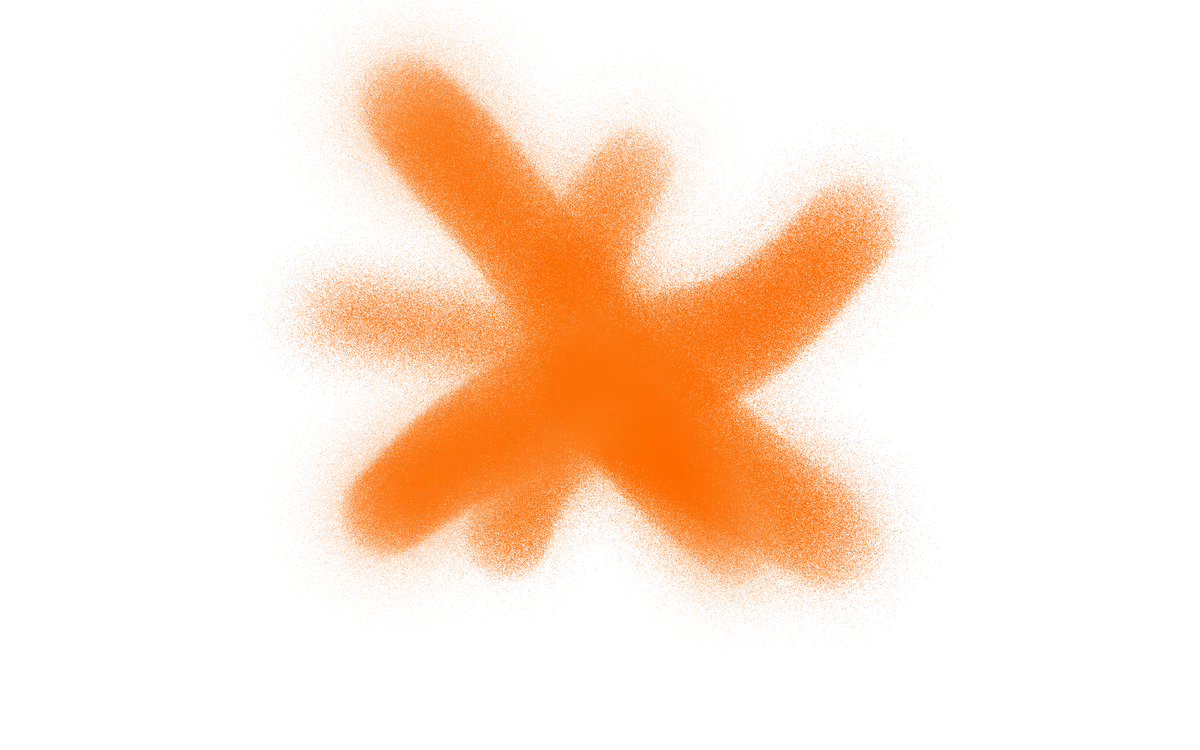
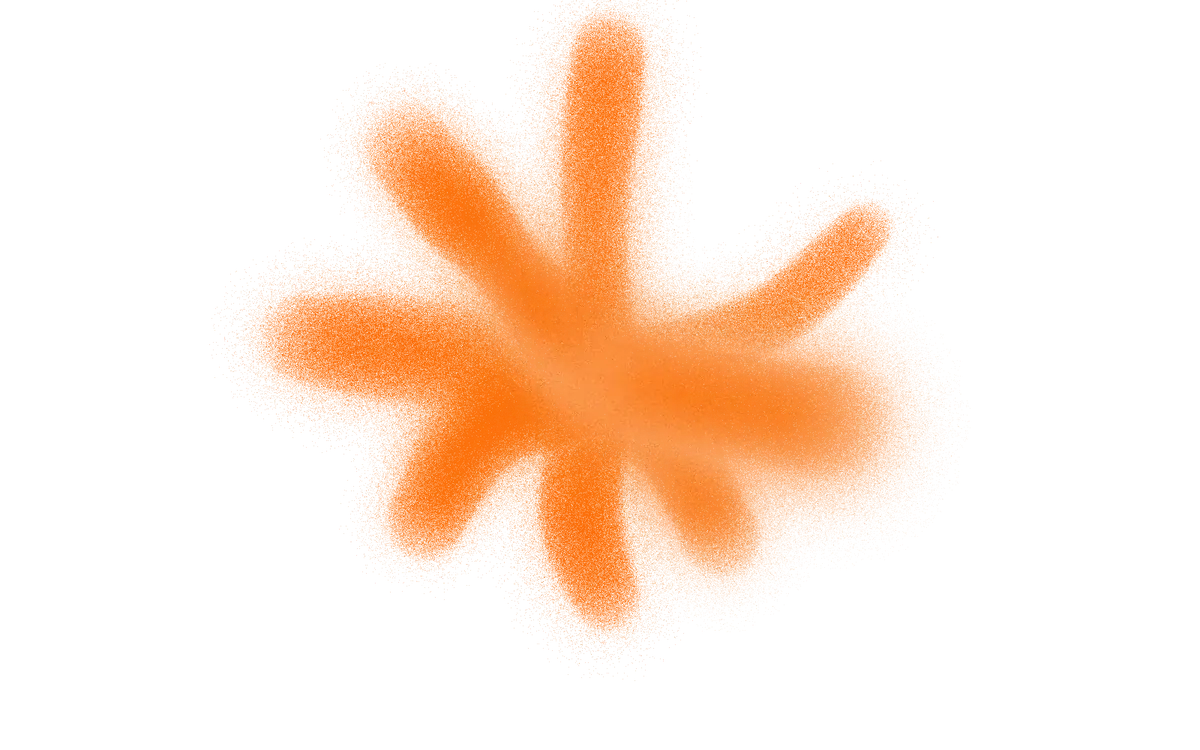
Doodles spray on: the statement gets a random doodle instead of the smiley and the footer's doodle sprays on too, both revealed along their baked stroke paths in layered soft passes, a bit quicker than before; the strike through never is in a colour well away from the doodle's

Changed region(s): [[0.185, 0.0, 0.7708, 0.8587]]

diff --git a/spray.js b/spray.js
@@ -1,8 +1,9 @@
 /* Spray paint on the site.
    Every sprayed picture is a flat image baked once, offline, in the halation spray Joe signed off (img/spray/, made by
    the bake page in the session scratchpad): placeholders, What We Do, How we work, Craft, the AI gradient, the wheel's
-   blue, and the marks on photo edges. Only the statement's smiley is worked out in the page, because it sprays on over
-   the text as you arrive. */
+   blue, and the marks on photo edges. The doodles over the statement and in the footer
+   are baked too, with their stroke paths (ft.json), and spray on along those paths as you arrive; only the strike
+   through "never" is worked out in the page. */
 (() => {
   const RM = matchMedia('(prefers-reduced-motion: reduce)').matches;
   /* work queued for the browser's idle moments, one piece at a time, so it never freezes the page */
@@ -20,16 +21,68 @@
     else { const io = new IntersectionObserver(es => { if (es.some(e => e.isIntersecting)) { io.disconnect(); load(); } }, { rootMargin: '150% 0px' }); [...new Set(lazy)].forEach(el => el && io.observe(el)); }
   }
 
-  /* the footer: one sprayed doodle, picked at random each visit, between Extra and Ordinary */
+  /* ---------- spraying on: a finished picture revealed along its strokes, built up as paint is: a wide mist first, then
+     denser, narrower coats through a soft round nozzle, so there is never a hard edge. ready: the finished picture;
+     strokes: [{r, p:[[x,y]...]}] in its pixels; blit(picture): draws a frame where it belongs. ---------- */
+  const NZ = (() => { const c = document.createElement('canvas'); c.width = c.height = 64; const x = c.getContext('2d'), gr = x.createRadialGradient(32, 32, 0, 32, 32, 32);
+    gr.addColorStop(0, 'rgba(0,0,0,1)'); gr.addColorStop(0.45, 'rgba(0,0,0,.65)'); gr.addColorStop(1, 'rgba(0,0,0,0)'); x.fillStyle = gr; x.fillRect(0, 0, 64, 64); return c; })();
+  const PASS = [[2.6, 0.22, 0.4], [1.9, 0.5, 0.33], [1.45, 0.85, 0.27]];   /* [nozzle width x stroke, coverage the pass adds, share of the time] */
+  function sprayOn(ready, strokes, blit, done) {
+    if (RM) { blit(ready); return done && done(); }
+    const W = ready.width, H = ready.height, mk = () => { const c = document.createElement('canvas'); c.width = W; c.height = H; return c; };
+    const m = mk(), mg = m.getContext('2d'), tmp = mk(), tg = tmp.getContext('2d');
+    /* each stroke as dabs a quarter of its width apart */
+    const S = strokes.map(({ r, p }) => { const out = [], step = Math.max(1, r * 0.25);
+      for (let i = 0; i < p.length - 1; i++) { const [ax, ay] = p[i], [bx, by] = p[i + 1], n = Math.max(1, Math.ceil(Math.hypot(bx - ax, by - ay) / step)); for (let k = 0; k < n; k++) out.push([ax + (bx - ax) * k / n, ay + (by - ay) * k / n]); }
+      out.push(p[p.length - 1]); return { r, p: out, t: Math.min(620, Math.max(220, out.length * step / W * 1500)) }; });
+    let si = 0, pi = 0, st = 0, done2 = 0, fade = 0;
+    const frame = () => { tg.globalCompositeOperation = 'copy'; tg.drawImage(ready, 0, 0); tg.globalCompositeOperation = 'destination-in'; tg.drawImage(m, 0, 0); blit(tmp); };
+    const step = now => {
+      if (si >= S.length) {   /* last, settle into the finished picture */
+        if (!fade) fade = now; const f = Math.min(1, (now - fade) / 280);
+        tg.globalCompositeOperation = 'source-over'; tg.globalAlpha = f * f; tg.drawImage(ready, 0, 0); tg.globalAlpha = 1; blit(tmp);
+        if (f < 1) return requestAnimationFrame(step);
+        blit(ready); return done && done();
+      }
+      if (!st) st = now;
+      const s = S[si], [wx, cover, share] = PASS[pi], p = Math.min(1, (now - st) / (s.t * share)), e = p * p * (1.6 - 0.6 * p);
+      const back = pi % 2 === 1, n = s.p.length - 1, upto = Math.round(e * n), rad = s.r * wx, size = rad * 2;
+      mg.globalAlpha = 1 - Math.pow(1 - cover, 1 / Math.max(1, size / (s.r * 0.25) * 0.6));   /* so each pass adds about its coverage, however many dabs overlap */
+      for (; done2 <= upto; done2++) { const [x, y] = s.p[back ? n - done2 : done2]; mg.drawImage(NZ, x - rad, y - rad, size, size); }
+      frame();
+      if (p < 1) return requestAnimationFrame(step);
+      st = 0; done2 = 0; pi++;
+      if (pi < PASS.length) return requestAnimationFrame(step);
+      pi = 0; si++;
+      if (si < S.length) return setTimeout(() => requestAnimationFrame(step), 50 + Math.random() * 60);
+      requestAnimationFrame(step);
+    };
+    requestAnimationFrame(step);
+  }
+  /* the doodles: 18 baked pictures (1200 x 750) and their stroke paths, as fractions of the picture */
+  let FT = null; const doodles = () => FT || (FT = fetch('/img/spray/ft.json').then(r => r.json()).catch(() => null));
+  const loadImg = src => new Promise((ok, no) => { const i = new Image(); i.decoding = 'async'; i.onload = () => ok(i); i.onerror = no; i.src = src; });
+  const pickD = (() => { const used = []; return () => { let i; do i = Math.random() * 18 | 0; while (used.includes(i) && used.length < 18); used.push(i); return i; }; })();
+  const pathsFor = (meta, w, h) => meta.strokes.map(({ r, p }) => ({ r: r * w, p: p.map(([x, y]) => [x * w, y * h]) }));
+  const onView = (el, fn, thr = 0.35) => { if (!('IntersectionObserver' in window)) return fn(); const io = new IntersectionObserver(es => { if (es.some(e => e.isIntersecting)) { io.disconnect(); fn(); } }, { threshold: thr }); io.observe(el); };
+
+  /* ---------- the footer: a doodle between Extra and Ordinary, sprayed on as the footer comes up ---------- */
   const fm = document.querySelector('.foot-mark'), fa = fm && fm.querySelector('.fm-avg'), fj = fm && fm.querySelector('.fm-joe');
   if (fa && fj) {
-    const im = document.createElement('img'); im.className = 'foot-draw'; im.alt = ''; im.setAttribute('aria-hidden', 'true'); im.loading = 'lazy'; im.decoding = 'async';
-    im.src = '/img/spray/ft-' + (Math.random() * 18 | 0) + '.webp'; fm.appendChild(im);
+    const cv = document.createElement('canvas'); cv.className = 'foot-draw'; cv.setAttribute('aria-hidden', 'true'); fm.appendChild(cv);
+    const di = pickD(); let pic = null, shown = false;
     const place = () => {   /* from the layout, so it holds while the footer slides in */
-      const l = fa.offsetLeft + fa.offsetWidth, gap = Math.max(fj.offsetLeft - l, 0), w = Math.max(gap * 1.6, fm.clientWidth * 0.36), h = w * 0.625;
-      im.style.width = w + 'px'; im.style.height = h + 'px'; im.style.left = (l + gap / 2 - w / 2) + 'px'; im.style.top = (fa.offsetTop + fa.offsetHeight * 0.5 - h / 2) + 'px';
+      const l = fa.offsetLeft + fa.offsetWidth, gap = Math.max(fj.offsetLeft - l, 0), w = Math.max(gap * 1.6, fm.clientWidth * 0.36), h = w * 0.625, d = Math.min(devicePixelRatio || 1, 2);
+      cv.style.width = w + 'px'; cv.style.height = h + 'px'; cv.style.left = (l + gap / 2 - w / 2) + 'px'; cv.style.top = (fa.offsetTop + fa.offsetHeight * 0.5 - h / 2) + 'px';
+      const W = Math.round(w * d), H = Math.round(h * d); if (cv.width !== W || cv.height !== H) { cv.width = W; cv.height = H; if (shown && pic) cv.getContext('2d').drawImage(pic, 0, 0, W, H); }
     };
     place(); addEventListener('resize', place); if (document.fonts) document.fonts.ready.then(place);
+    const near = new IntersectionObserver(es => { if (!es.some(e => e.isIntersecting)) return; near.disconnect();
+      Promise.all([doodles(), loadImg('/img/spray/ft-' + di + '.webp')]).then(([meta, img]) => { pic = img;
+        onView(cv, () => { const g = cv.getContext('2d'), go = () => sprayOn(img, meta ? pathsFor(meta[di], img.width, img.height) : [], f => { g.clearRect(0, 0, cv.width, cv.height); g.drawImage(f, 0, 0, cv.width, cv.height); }, () => { shown = true; });
+          if (!meta) { g.drawImage(img, 0, 0, cv.width, cv.height); shown = true; } else go(); }, 0.5);
+      }).catch(() => {}); }, { rootMargin: '60% 0px' });
+    near.observe(fm);
   }
 
   /* odd bits of photography get a sprayed mark off one corner: a few at random each visit, the 620 picture always in lime */
@@ -47,144 +100,81 @@
     img.after(o);
   });
 
-  /* ---------- the statement: a smiley sprayed over it, with halation ----------
-     Signed off by Joe in an off-site test (25 Nov 2026). Each stroke thickens and thins, fades and goes in and out of focus;
-     a glow in a close colour blooms off it in a few short stretches and bleeds into its edge; all in particles finer than a
-     screen pixel (worked out at twice the screen's resolution, then drawn down). Worked out in idle slices before it scrolls
-     in, then revealed along each stroke in the order it was sprayed. */
-  const PAIRS = [['#ff5a12', '#ffab85'], ['#ff3f8e', '#ffa3b8'], ['#1f3dff', '#7cc3ff'], ['#1f3dff', '#8a4dff'], ['#8fdc2a', '#2fae55'], ['#8b45ff', '#b0559e']];   /* orange/peach, pink/soft pink, blue/light blue, blue/purple, lime/green, purple/plum */
-  function smile(cv) {
-    const wrap = cv.parentElement, tb = wrap.querySelector('.ca-state').getBoundingClientRect(), box = cv.getBoundingClientRect();
-    const d = Math.min(devicePixelRatio || 1, 2), q = d * 2;   /* d: the canvas's pixels per CSS pixel; q: the working resolution */
-    cv.width = Math.round(box.width * d); cv.height = Math.round(box.height * d);
-    const sz = Math.min(tb.height * 1.55, tb.width * 0.42), mx = tb.left + tb.width / 2 - box.left, my = tb.top + tb.height / 2 - box.top + sz * 0.07;
-    let x0 = mx - sz * 1.25, y0 = my - sz * 1.0, rw = sz * 2.5, rh = sz * 2.05;   /* the patch the smiley and its glow sit in (CSS px) */
-    const nvEl = wrap.querySelector('.ca-nv'), nv = nvEl && nvEl.getBoundingClientRect();   /* and a strike through "never", so the patch reaches it too */
-    let nL, nR, nM, nH;
-    if (nv && nv.width) {
-      /* measured from the layout, not the screen: the lines may still be sliding in as this runs */
-      const rel = el => { let x = 0, y = 0; while (el && el !== wrap) { x += el.offsetLeft; y += el.offsetTop; el = el.offsetParent; } return [x, y]; };
-      const [ex, ey] = rel(nvEl), [cx0, cy0] = rel(cv);
-      nL = ex - cx0; nR = nL + nvEl.offsetWidth; nH = nvEl.offsetHeight; nM = ey - cy0 + nH * 0.52;
-      const p = nH * 1.1, ax = Math.max(0, Math.min(x0, nL - p)), ay = Math.max(0, Math.min(y0, nM - p)), bx = Math.min(box.width, Math.max(x0 + rw, nR + p)), by = Math.min(box.height, Math.max(y0 + rh, nM + p));
-      x0 = ax; y0 = ay; rw = bx - ax; rh = by - ay;
-    }
-    const W = Math.round(rw * q), H = Math.round(rh * q), K = sz * q / 210;   /* K: working pixels per pixel of the test, where sz was 210 */
-    const [coreHex, haloHex] = PAIRS[Math.random() * PAIRS.length | 0], tilt = (0.15 + Math.random() * 0.12) * (Math.random() < 0.5 ? -1 : 1);
-    const co = Math.cos(tilt), si = Math.sin(tilt), cx = (mx - x0) * q, cy = (my - y0) * q, SZ = sz * q;
-    const F = (u, v) => [cx + (u * co - v * si) * SZ, cy + (u * si + v * co) * SZ];
-    const along = pts => { const P = pts.map(([u, v]) => F(u, v)), out = [];
-      for (let k = 0; k < P.length - 1; k++) { const [ax, ay] = P[k], [bx, by] = P[k + 1], n = Math.ceil(Math.hypot(bx - ax, by - ay) / (1.5 * K)); for (let j = 0; j < n; j++) out.push([ax + (bx - ax) * j / n, ay + (by - ay) * j / n]); }
-      return out; };
+  /* ---------- the statement: a doodle sprayed over it, then a strike through "never" in another colour ----------
+     The strike is worked out in the page in the halation spray (signed off 25 Nov 2026): it thickens and thins, fades and
+     goes in and out of focus, a close-colour glow blooms off it in short stretches, in particles finer than a pixel. */
+  const PAIRS = [['#ff5a12', '#ffab85'], ['#ff3f8e', '#ffa3b8'], ['#1f3dff', '#7cc3ff'], ['#1f3dff', '#8a4dff'], ['#8fdc2a', '#2fae55'], ['#8b45ff', '#b0559e']];
+  const hue = h => { const [r, g, b] = [1, 3, 5].map(i => parseInt(h.slice(i, i + 2), 16) / 255), M = Math.max(r, g, b), n = Math.min(r, g, b), c = M - n; if (!c) return 0;
+    const x = M === r ? ((g - b) / c) % 6 : M === g ? (b - r) / c + 2 : (r - g) / c + 4; return (x * 60 + 360) % 360; };
+  /* the strike, worked out in idle slices: returns {ready, stroke, rect} via cb */
+  function strike(cv, wrap, pair, cb) {
+    const nvEl = wrap.querySelector('.ca-nv'); if (!nvEl || !nvEl.offsetWidth) return cb(null);
+    const rel = el => { let x = 0, y = 0; while (el && el !== wrap) { x += el.offsetLeft; y += el.offsetTop; el = el.offsetParent; } return [x, y]; };   /* from the layout: the lines may still be sliding in */
+    const [ex, ey] = rel(nvEl), [cx0, cy0] = rel(cv), nL = ex - cx0, nW = nvEl.offsetWidth, nH = nvEl.offsetHeight, nM = ey - cy0 + nH * 0.52;
+    const d = Math.min(devicePixelRatio || 1, 2), q = d * 2, pad = nH * 1.1, x0 = nL - nW * 0.14 - pad, y0 = nM - pad, rw = nW * 1.28 + pad * 2, rh = pad * 2;
+    const W = Math.round(rw * q), H = Math.round(rh * q), R = nH * 0.27 * q, K = R / 21.45;
+    const P = (x, y) => [(x - x0) * q, (y - y0) * q], dy = (Math.random() - 0.5) * nH * 0.12;
+    const key = [P(nL - nW * 0.14, nM + nH * 0.12 + dy), P(nL + nW * 0.3, nM + nH * 0.04), P(nL + nW * 0.7, nM - nH * 0.04 + dy), P(nL + nW * 1.14, nM - nH * 0.14)];
     const sm = pts => pts.map((b, k) => { const a = pts[Math.max(0, k - 1)], c = pts[Math.min(pts.length - 1, k + 1)]; return [(a[0] + 2 * b[0] + c[0]) / 4, (a[1] + 2 * b[1] + c[1]) / 4]; });
-    const j = () => (Math.random() - 0.5) * 0.04;   /* no two smileys quite the same */
-    const line = P => { const out = []; for (let k = 0; k < P.length - 1; k++) { const [ax, ay] = P[k], [bx, by] = P[k + 1], n = Math.ceil(Math.hypot(bx - ax, by - ay) / (1.5 * K)); for (let i = 0; i < n; i++) out.push([ax + (bx - ax) * i / n, ay + (by - ay) * i / n]); } return out; };
-    const strokes = [along([[-0.32 + j(), -0.52], [-0.31 + j(), -0.35], [-0.3 + j(), -0.17]]), along([[0.32 + j(), -0.52], [0.33 + j(), -0.35], [0.34 + j(), -0.17]]),
-                     along(sm(sm([[-0.64, 0.04 + j()], [-0.48, 0.3], [-0.25, 0.5 + j()], [0.02, 0.58], [0.28, 0.5 + j()], [0.5, 0.3], [0.66, 0.0 + j()]])))];
-    if (nL !== undefined) {   /* the strike: one bold pass through the word, a touch uphill, running past each end */
-      const w = nR - nL, P = (x, y) => [(x - x0) * q, (y - y0) * q], dy = (Math.random() - 0.5) * nH * 0.12;
-      const st = line(sm(sm([P(nL - w * 0.14, nM + nH * 0.12 + dy), P(nL + w * 0.3, nM + nH * 0.04), P(nL + w * 0.7, nM - nH * 0.04 + dy), P(nR + w * 0.14, nM - nH * 0.14)])));
-      st.firm = true; st.scale = nH * 0.27 * q / (21.45 * K); strokes.push(st);
-    }
+    const path = []; { const k2 = sm(sm(key)); for (let i = 0; i < k2.length - 1; i++) { const [ax, ay] = k2[i], [bx, by] = k2[i + 1], n = Math.ceil(Math.hypot(bx - ax, by - ay) / (1.5 * K)); for (let j = 0; j < n; j++) path.push([ax + (bx - ax) * j / n, ay + (by - ay) * j / n]); } }
     const mk = () => { const c = document.createElement('canvas'); c.width = W; c.height = H; return c; };
     const wob = () => { const a = Math.random() * 6, b = Math.random() * 6, c = Math.random() * 6; return t => 0.5 + 0.28 * Math.sin(t * 0.009 + a) + 0.16 * Math.sin(t * 0.027 + b) + 0.08 * Math.sin(t * 0.07 + c); };
-    const sharp = mk(), soft = mk(), gm = mk(), sg = sharp.getContext('2d'), fg = soft.getContext('2d'), gg = gm.getContext('2d'), reach = [];
+    const sharp = mk(), soft = mk(), gm = mk(), sg = sharp.getContext('2d'), fg = soft.getContext('2d'), gg = gm.getContext('2d'), width = wob(), dense = wob(), glow = wob();
     [sg, fg, gg].forEach(x => x.fillStyle = '#000');
-    let t0 = 0;
-    for (const s of strokes) {
-      const width = wob(), dense = wob(), glow = wob(); let big = 0;
-      s.forEach(([x, y], k) => {
-        const t = t0 + k * 1.5, end = Math.min(1, k / 18, (s.length - k) / 18);
-        const r = 26 * K * (s.firm ? 0.8 + 0.35 * width(t) : 0.45 + 0.75 * width(t)) * (0.88 + 0.12 * end) * (s.scale || 1);   /* thicker and thinner along it, round at the ends */
-        const a = Math.max(s.firm ? 0.55 : 0.03, Math.min(1, 1.3 * dense(t) - 0.25)) * (0.7 + 0.3 * end);   /* denser and faded along it */
-        for (const x2 of [sg, fg]) { x2.globalAlpha = a * 0.24; x2.beginPath(); x2.arc(x, y, r, 0, 6.283); x2.fill(); }
-        const gw = Math.max(0, glow(t) * 1.7 - 0.85) ** 1.6;   /* the glow blooms in a few short stretches, not evenly */
-        if (gw > 0.01) { gg.globalAlpha = Math.min(1, gw) * 0.28; gg.beginPath(); gg.arc(x + (Math.random() - 0.5) * 6 * K, y + (Math.random() - 0.5) * 6 * K, r * 0.95, 0, 6.283); gg.fill(); }
-        if (r > big) big = r;
-      });
-      reach.push(big);
-      t0 += s.length * 1.5 + 400;
-    }
+    path.forEach(([x, y], k) => {
+      const t = k * 1.5, end = Math.min(1, k / 18, (path.length - k) / 18), r = 26 * K * (0.8 + 0.35 * width(t)) * (0.88 + 0.12 * end), a = Math.max(0.55, Math.min(1, 1.3 * dense(t) - 0.25)) * (0.7 + 0.3 * end);
+      for (const x2 of [sg, fg]) { x2.globalAlpha = a * 0.24; x2.beginPath(); x2.arc(x, y, r, 0, 6.283); x2.fill(); }
+      const gw = Math.max(0, glow(t) * 1.7 - 0.85) ** 1.6;
+      if (gw > 0.01) { gg.globalAlpha = Math.min(1, gw) * 0.28; gg.beginPath(); gg.arc(x + (Math.random() - 0.5) * 6 * K, y + (Math.random() - 0.5) * 6 * K, r * 0.95, 0, 6.283); gg.fill(); }
+    });
     const blur = (c, px) => { const o = mk(), x = o.getContext('2d'); x.filter = 'blur(' + px * K + 'px)'; x.drawImage(c, 0, 0); return o; };
+    const core = [1, 3, 5].map(i => parseInt(pair[0].slice(i, i + 2), 16)), halo = [1, 3, 5].map(i => parseInt(pair[1].slice(i, i + 2), 16));
     let S, Sf, Gm, out, o, fv, fw, fq, row = 0;
-    const core = [1, 3, 5].map(i => parseInt(coreHex.slice(i, i + 2), 16)), halo = [1, 3, 5].map(i => parseInt(haloHex.slice(i, i + 2), 16));
-    const prep = () => {
-      S = blur(sharp, 1.5).getContext('2d').getImageData(0, 0, W, H).data;
-      Sf = blur(soft, 13).getContext('2d').getImageData(0, 0, W, H).data;
-      const ga = blur(gm, 16), gx = ga.getContext('2d'); gx.globalAlpha = 0.8; gx.drawImage(blur(gm, 7), 0, 0); Gm = gx.getImageData(0, 0, W, H).data;
-      fq = 130 * K; fw = Math.ceil(W / fq) + 2; fv = Array.from({ length: fw * (Math.ceil(H / fq) + 2) }, Math.random);
-      out = new ImageData(W, H); o = out.data;
-      later(slice);
-    };
     const focus = (x, y) => { const fx = x / fq, ix = fx | 0, tx = fx - ix, fy = y / fq, iy = fy | 0, ty = fy - iy, i = iy * fw + ix, a = tx * tx * (3 - 2 * tx), b = ty * ty * (3 - 2 * ty);
       return (fv[i] * (1 - a) + fv[i + 1] * a) * (1 - b) + (fv[i + fw] * (1 - a) + fv[i + fw + 1] * a) * b; };
-    const slice = () => {   /* the particles, a band of rows per idle moment so the page never stalls */
-      const end = Math.min(H, row + Math.max(40, Math.round(320000 / W)));
-      for (let y = row; y < end; y++) for (let x = 0; x < W; x++) {
-        const i = (y * W + x) * 4; if (S[i + 3] < 2 && Sf[i + 3] < 2 && Gm[i + 3] < 2) continue;
-        const f = focus(x, y) ** 1.3, body = Math.min(1, (S[i + 3] / 255 * f + Sf[i + 3] / 255 * (1 - f)) * 1.05), glw = Math.min(1, Gm[i + 3] / 255 * 1.2);
-        const pb = Math.random() < body ** 1.15, pg = Math.random() < glw * 0.95;   /* each particle: paint or not, by how much paint is there */
-        if (!pb && !pg) continue;
-        let r, g2, b, a;
-        if (pb) { const bl = Math.min(0.85, glw * (1 - body) * 1.6);   /* the stroke's edge takes the glow's colour where the glow is strong */
-          r = core[0] + (halo[0] - core[0]) * bl; g2 = core[1] + (halo[1] - core[1]) * bl; b = core[2] + (halo[2] - core[2]) * bl; a = 0.9 + Math.random() * 0.1;
-        } else { r = halo[0]; g2 = halo[1]; b = halo[2]; a = 0.55 + 0.45 * glw; }
-        const sh = 0.9 + Math.random() * 0.2;
-        o[i] = r * sh; o[i + 1] = g2 * sh; o[i + 2] = b * sh; o[i + 3] = a * 255;
-      }
-      row = end;
-      if (row < H) return later(slice);
-      const fin = mk(), fx = fin.getContext('2d'); fx.putImageData(out, 0, 0);
-      fx.fillStyle = '#fff'; for (let k = 0; k < 30; k++) { fx.globalAlpha = 0.4 + Math.random() * 0.5; fx.beginPath(); fx.arc(cx + (Math.random() - 0.5) * 450 * K, cy + (Math.random() - 0.5) * 300 * K, (0.4 + Math.random() * 0.7) * K, 0, 6.28); fx.fill(); }
-      S = Sf = Gm = out = o = null;
-      ready = fin; if (seen) reveal();
-    };
-    let ready = null, seen = false, shown = false;
-    const g = cv.getContext('2d'), put = () => { g.imageSmoothingQuality = 'high'; g.drawImage(ready, x0 * d, y0 * d, rw * d, rh * d); };
-    const reveal = () => {   /* built up as paint is: a few quick passes along each stroke, a wide mist first, then denser,
-                                narrower coats, each through a soft round nozzle so there is never a hard edge; eyes first */
-      if (shown) return; shown = true;
-      if (RM) return put();
-      const m = mk(), mg = m.getContext('2d'), tmp = mk(), tg = tmp.getContext('2d');
-      const nz = document.createElement('canvas'); nz.width = nz.height = 64;   /* the nozzle: dense in the middle, fading to nothing */
-      { const x = nz.getContext('2d'), gr = x.createRadialGradient(32, 32, 0, 32, 32, 32); gr.addColorStop(0, 'rgba(0,0,0,1)'); gr.addColorStop(0.45, 'rgba(0,0,0,.65)'); gr.addColorStop(1, 'rgba(0,0,0,0)'); x.fillStyle = gr; x.fillRect(0, 0, 64, 64); }
-      const PASS = [[2.7, 0.22, 0.4], [2.0, 0.5, 0.33], [1.55, 0.85, 0.27]];   /* [nozzle width x stroke, coverage the pass adds, share of the time] */
-      const time = [560, 560, 1400], gap = 2;
-      let si = 0, pi = 0, st = 0, done = 0, fade = 0;
-      const draw = () => { tg.globalCompositeOperation = 'copy'; tg.drawImage(ready, 0, 0); tg.globalCompositeOperation = 'destination-in'; tg.drawImage(m, 0, 0);
-        g.clearRect(0, 0, cv.width, cv.height); g.imageSmoothingQuality = 'high'; g.drawImage(tmp, x0 * d, y0 * d, rw * d, rh * d); };
-      const step = now => {
-        if (si >= strokes.length) {   /* last, settle into the finished picture */
-          if (!fade) fade = now; const f = Math.min(1, (now - fade) / 450);
-          draw(); g.globalAlpha = f * f; g.drawImage(ready, x0 * d, y0 * d, rw * d, rh * d); g.globalAlpha = 1;
-          return f < 1 ? requestAnimationFrame(step) : (g.clearRect(0, 0, cv.width, cv.height), put());
+    later(() => {
+      S = blur(sharp, 1.5).getContext('2d').getImageData(0, 0, W, H).data; Sf = blur(soft, 13).getContext('2d').getImageData(0, 0, W, H).data;
+      const ga = blur(gm, 16), gx = ga.getContext('2d'); gx.globalAlpha = 0.8; gx.drawImage(blur(gm, 7), 0, 0); Gm = gx.getImageData(0, 0, W, H).data;
+      fq = 130 * K; fw = Math.ceil(W / fq) + 2; fv = Array.from({ length: fw * (Math.ceil(H / fq) + 2) }, Math.random); out = new ImageData(W, H); o = out.data;
+      const slice = () => {
+        const end = Math.min(H, row + Math.max(40, Math.round(320000 / W)));
+        for (let y = row; y < end; y++) for (let x = 0; x < W; x++) {
+          const i = (y * W + x) * 4; if (S[i + 3] < 2 && Sf[i + 3] < 2 && Gm[i + 3] < 2) continue;
+          const f = focus(x, y) ** 1.3, body = Math.min(1, (S[i + 3] / 255 * f + Sf[i + 3] / 255 * (1 - f)) * 1.05), glw = Math.min(1, Gm[i + 3] / 255 * 1.2);
+          const pb = Math.random() < body ** 1.15, pg = Math.random() < glw * 0.95; if (!pb && !pg) continue;
+          let r, g2, b, a;
+          if (pb) { const bl = Math.min(0.85, glw * (1 - body) * 1.6); r = core[0] + (halo[0] - core[0]) * bl; g2 = core[1] + (halo[1] - core[1]) * bl; b = core[2] + (halo[2] - core[2]) * bl; a = 0.9 + Math.random() * 0.1; }
+          else { r = halo[0]; g2 = halo[1]; b = halo[2]; a = 0.55 + 0.45 * glw; }
+          const sh = 0.9 + Math.random() * 0.2; o[i] = r * sh; o[i + 1] = g2 * sh; o[i + 2] = b * sh; o[i + 3] = a * 255;
         }
-        if (!st) st = now;
-        const s = strokes[si], [wx, cover, share] = PASS[pi], dur = (time[si] || 700) * share, p = Math.min(1, (now - st) / dur), e = p * p * (1.6 - 0.6 * p);
-        const back = pi % 2 === 1, n = s.length - 1, upto = Math.round(e * n), rad = reach[si] * wx, size = rad * 2;
-        const over = Math.max(1, size / (gap * 1.5 * K) * 0.6), a = 1 - Math.pow(1 - cover, 1 / over);   /* so each pass adds about its coverage, however many dabs overlap */
-        mg.globalAlpha = a;
-        for (; done <= upto; done += gap) { const [x, y] = s[back ? n - done : done]; mg.drawImage(nz, x - rad, y - rad, size, size); }
-        draw();
-        if (p < 1) return requestAnimationFrame(step);
-        st = 0; done = 0; pi++;
-        if (pi < PASS.length) return requestAnimationFrame(step);
-        pi = 0; si++;
-        if (si < strokes.length) return setTimeout(() => requestAnimationFrame(step), 120 + Math.random() * 100);
-        requestAnimationFrame(step);
+        row = end; if (row < H) return later(slice);
+        const fin = mk(); fin.getContext('2d').putImageData(out, 0, 0); S = Sf = Gm = out = o = null;
+        cb({ ready: fin, stroke: { r: 26 * K, p: path.filter((_, i) => i % 3 === 0) }, rect: [x0 * d, y0 * d, rw * d, rh * d] });
       };
-      requestAnimationFrame(step);
-    };
-    later(prep);
-    return () => { seen = true; if (ready) reveal(); };
+      later(slice);
+    });
   }
-  document.querySelectorAll('canvas.spray-over').forEach(cv => {   /* worked out before it scrolls in; sprayed on once it is in view */
-    if (!('IntersectionObserver' in window)) return;
-    let go = null;
-    const near = new IntersectionObserver(es => { if (es.some(e => e.isIntersecting && cv.clientWidth)) { near.disconnect(); (document.fonts ? document.fonts.ready : Promise.resolve()).then(() => { go = smile(cv); if (inView) go(); }); } }, { rootMargin: '80% 0px' });
-    let inView = false;
-    const vis = new IntersectionObserver(es => { if (es.some(e => e.isIntersecting)) { vis.disconnect(); inView = true; setTimeout(() => go && go(), RM ? 0 : 500); } }, { threshold: 0.4 });
+  document.querySelectorAll('canvas.spray-over').forEach(cv => {
+    const wrap = cv.parentElement; if (!wrap.querySelector('.ca-state') || !('IntersectionObserver' in window)) return;
+    const cv2 = cv.cloneNode(); cv.after(cv2);   /* the strike on its own layer, so it goes over the doodle without wiping it */
+    const di = pickD();
+    let parts = null, inView = false, ran = false;
+    const run = () => { if (ran || !parts || !inView) return; ran = true;
+      const [meta, img, sk] = parts, box = cv.getBoundingClientRect(), tb = wrap.querySelector('.ca-state').getBoundingClientRect(), d = Math.min(devicePixelRatio || 1, 2);
+      [cv, cv2].forEach(c => { c.width = Math.round(box.width * d); c.height = Math.round(box.height * d); });
+      /* the doodle over the sentence: centred on it, about as tall as the text block */
+      const w = Math.min(tb.width * 0.95, tb.height * 2.4), h = w * 0.625, x = (tb.left - box.left + tb.width / 2 - w / 2) * d, y = (tb.top - box.top + tb.height / 2 - h / 2) * d;
+      const g = cv.getContext('2d'), g2 = cv2.getContext('2d');
+      const strikeOn = () => { if (!sk) return; const [rx, ry, rW, rH] = sk.rect; sprayOn(sk.ready, [sk.stroke], f => { g2.clearRect(0, 0, cv2.width, cv2.height); g2.imageSmoothingQuality = 'high'; g2.drawImage(f, rx, ry, rW, rH); }); };
+      sprayOn(img, meta ? pathsFor(meta[di], img.width, img.height) : [], f => { g.clearRect(0, 0, cv.width, cv.height); g.drawImage(f, x, y, w * d, h * d); }, () => setTimeout(strikeOn, 120));
+    };
+    const near = new IntersectionObserver(es => { if (!es.some(e => e.isIntersecting && cv.clientWidth)) return; near.disconnect();
+      (document.fonts ? document.fonts.ready : Promise.resolve()).then(() => Promise.all([doodles(), loadImg('/img/spray/ft-' + di + '.webp')])).then(([meta, img]) => {
+        const c = meta && meta[di] ? meta[di].c : '#000000', pool = PAIRS.filter(([k]) => { const dh = Math.abs(hue(k) - hue(c)); return Math.min(dh, 360 - dh) > 70; });
+        const pair = (pool.length ? pool : PAIRS)[Math.random() * (pool.length || PAIRS.length) | 0];
+        strike(cv2, wrap, pair, sk => { parts = [meta, img, sk]; run(); });
+      }).catch(() => {}); }, { rootMargin: '80% 0px' });
+    const vis = new IntersectionObserver(es => { if (es.some(e => e.isIntersecting)) { vis.disconnect(); setTimeout(() => { inView = true; run(); }, RM ? 0 : 250); } }, { threshold: 0.4 });
     near.observe(cv); vis.observe(cv);
   });
-
 })();

diff --git a/index.html b/index.html
@@ -147,7 +147,7 @@
 <script src="https://cdnjs.cloudflare.com/ajax/libs/gsap/3.12.5/gsap.min.js"></script>
 <script src="https://unpkg.com/lenis@1.3.26/dist/lenis.min.js"></script>
 <script src="main.js?v=20261130x"></script>
-<script src="spray.js?v=107" defer></script>
+<script src="spray.js?v=108" defer></script>
 <script src="booking.js?v=20261130x"></script>
 <script src="transition.js?v=20261130x"></script>
 <script src="footer.js?v=20261130x"></script>

diff --git a/information/index.html b/information/index.html
@@ -214,7 +214,7 @@
 <script src="/page.js?v=20261130x"></script>
 <script src="/information/hv.js?v=20261130x"></script>
 <script src="/information/wd.js?v=20261130x"></script>
-<script src="/spray.js?v=107" defer></script>
+<script src="/spray.js?v=108" defer></script>
 <script src="/booking.js?v=20261130x"></script>
 <script src="/transition.js?v=20261130x"></script>
 <script src="/footer.js?v=20261130x"></script>

diff --git a/work/bison/index.html b/work/bison/index.html
@@ -191,7 +191,7 @@
 
 <script src="https://unpkg.com/lenis@1.3.26/dist/lenis.min.js"></script>
 <script src="/page.js?v=20261130x"></script>
-<script src="/spray.js?v=107" defer></script>
+<script src="/spray.js?v=108" defer></script>
 <script src="/booking.js?v=20261130x"></script>
 <script src="/transition.js?v=20261130x"></script>
 <script src="/footer.js?v=20261130x"></script>

diff --git a/work/figtree/index.html b/work/figtree/index.html
@@ -288,7 +288,7 @@
 
 <script src="https://unpkg.com/lenis@1.3.26/dist/lenis.min.js"></script>
 <script src="/page.js?v=20261130x"></script>
-<script src="/spray.js?v=107" defer></script>
+<script src="/spray.js?v=108" defer></script>
 <script src="/booking.js?v=20261130x"></script>
 <script src="/transition.js?v=20261130x"></script>
 <script src="/footer.js?v=20261130x"></script>

diff --git a/work/index.html b/work/index.html
@@ -91,7 +91,7 @@
 
 <script src="https://unpkg.com/lenis@1.3.26/dist/lenis.min.js"></script>
 <script src="/page.js?v=20261130x"></script>
-<script src="/spray.js?v=107" defer></script>
+<script src="/spray.js?v=108" defer></script>
 <script src="/booking.js?v=20261130x"></script>
 <script src="/transition.js?v=20261130x"></script>
 <script src="/footer.js?v=20261130x"></script>
